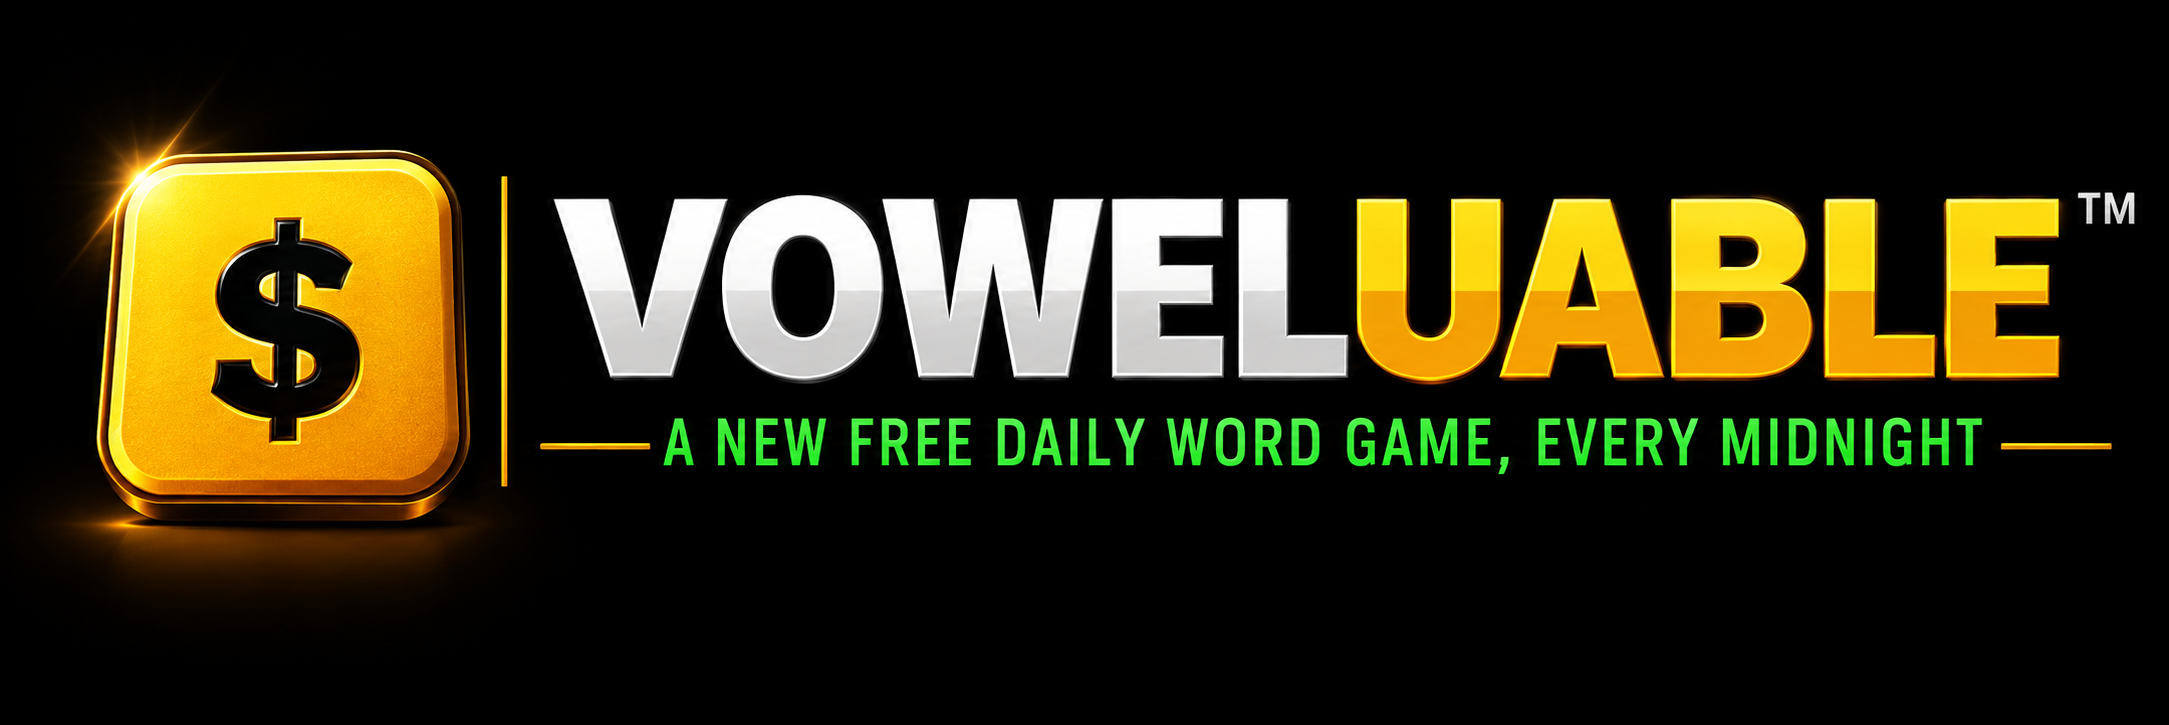
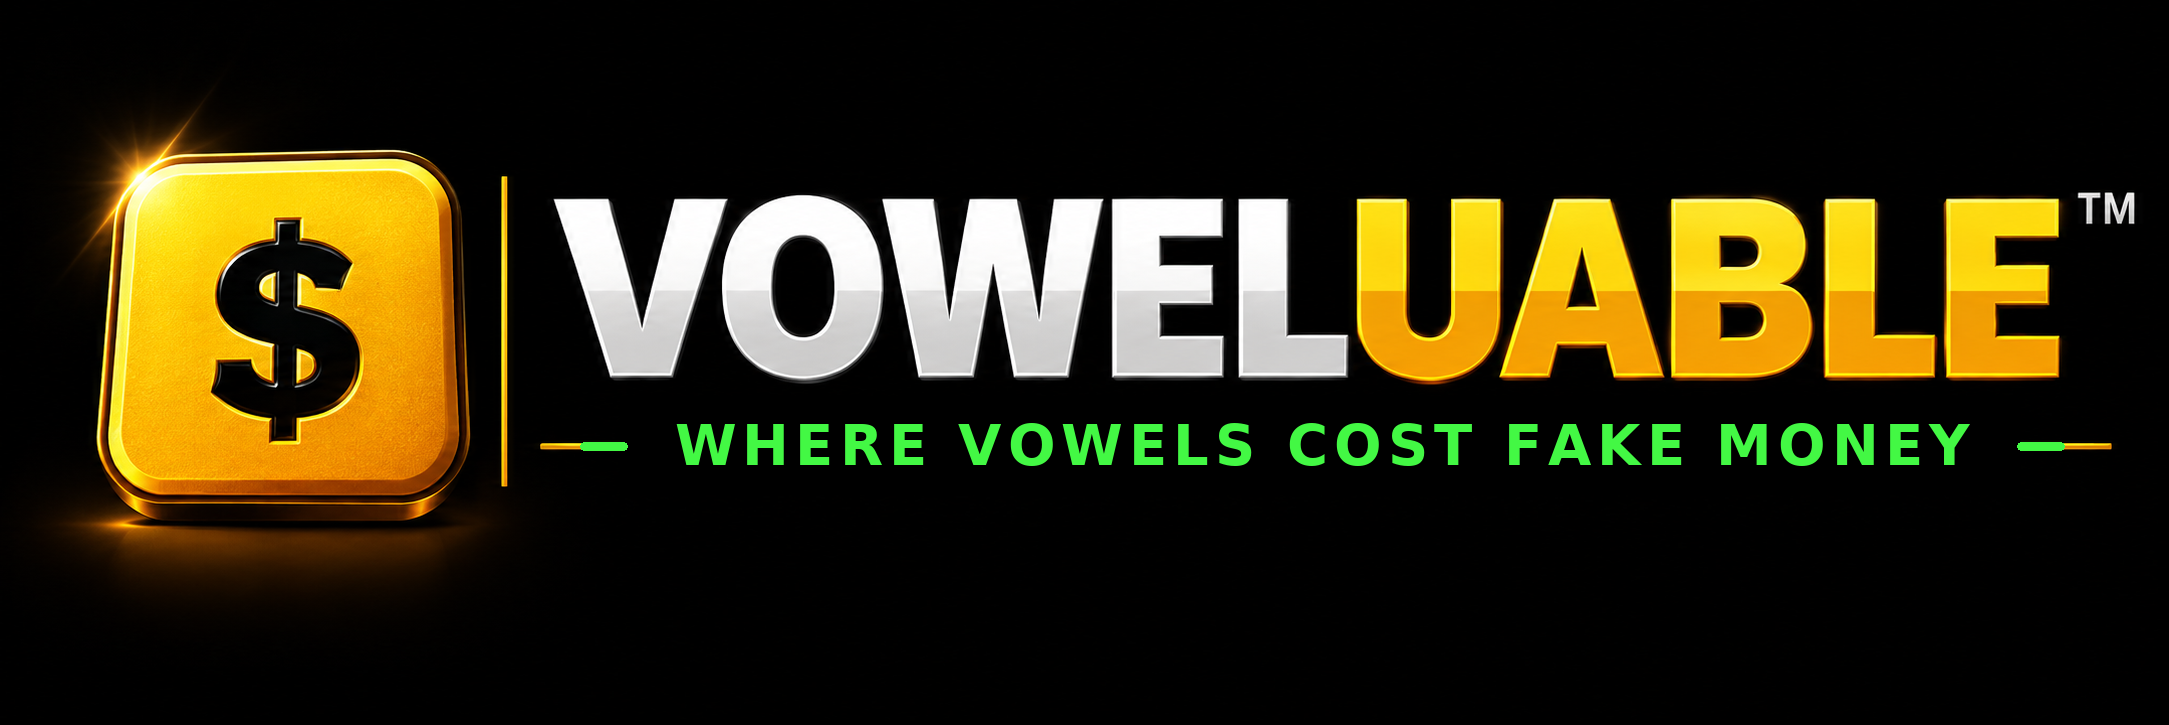
Add files via upload

Changed region(s): [[0.2471, 0.5766, 0.9576, 0.6676]]

diff --git a/index.html b/index.html
@@ -3,10 +3,10 @@
 <head>
 <meta charset="UTF-8">
 <meta name="viewport" content="width=device-width, initial-scale=1.0, viewport-fit=cover">
-<title>Voweluable — the daily word game where vowels cost money</title>
+<title>Voweluable — the daily word game where vowels cost fake money</title>
 <meta name="description" content="Voweluable is a free daily word game with a twist: every vowel costs play money. You get 3 free letters and a $10 budget to buy vowels — spend smart, build the highest-scoring words in 3 minutes, bank what you don't spend, and top the daily leaderboard. New puzzle every midnight.">
 <link rel="canonical" href="https://voweluable.com/">
-<meta property="og:title" content="Voweluable — the daily word game where vowels cost money">
+<meta property="og:title" content="Voweluable — the daily word game where vowels cost fake money">
 <meta property="og:description" content="A free daily word game with a twist: vowels cost play money. Buy them from a $10 budget, build your words, beat the 3-minute clock. New board every midnight, one champion crowned.">
 <meta property="og:type" content="website">
 <meta property="og:url" content="https://voweluable.com/">
@@ -14,7 +14,7 @@
 <meta property="og:image:width" content="1200">
 <meta property="og:image:height" content="630">
 <meta name="twitter:card" content="summary_large_image">
-<meta name="twitter:title" content="Voweluable — the daily word game where vowels cost money">
+<meta name="twitter:title" content="Voweluable — the daily word game where vowels cost fake money">
 <meta name="twitter:description" content="A free daily word game with a twist: vowels cost play money. Buy them from a $10 budget, build your words, beat the clock. New board every midnight.">
 <meta name="twitter:image" content="https://voweluable.com/social-share.png">
 <link rel="icon" href="favicon.ico" sizes="any">
@@ -31,7 +31,7 @@
   "@context": "https://schema.org",
   "@type": "WebApplication",
   "name": "Voweluable",
-  "alternateName": "Voweluable - the word game where vowels cost money",
+  "alternateName": "Voweluable - the word game where vowels cost fake money",
   "url": "https://voweluable.com/",
   "description": "Voweluable is a free daily word game with a twist: every vowel costs play money. You get 3 free letters and a $10 budget to buy vowels, then build the highest-scoring words you can in 3 minutes and bank what you don't spend. A new board every midnight, one champion crowned.",
   "applicationCategory": "GameApplication",
@@ -56,15 +56,15 @@
   :root{
     --ink:#0B1220;
     --ink-light:#131C2E;
-    --gold:#E3B23C;
-    --gold-dark:#B8862A;
-    --silver:#C7CDD4;
-    --silver-dark:#8D96A1;
-    --mint:#34C77B;
-    --coral:#E85D4C;
-    --orange:#F2914B;
-    --cream:#F5EFE0;
-    --muted:#7C8AA5;
+    --gold:#F5BE2E;
+    --gold-dark:#D39A24;
+    --silver:#D9DFE6;
+    --silver-dark:#9BA6B3;
+    --mint:#2FD95E;
+    --coral:#FF6350;
+    --orange:#FF963A;
+    --cream:#FAF4E6;
+    --muted:#8E9CB8;
   }
   *{box-sizing:border-box;}
   body{
@@ -396,7 +396,7 @@
   .tile.tile-used:active{transform:scale(0.94);}
   .tile.consonant{background:linear-gradient(180deg,#ffb55d 0%, #f2914b 52%, #db7730 100%); color:#2a1708; border:none;}
   .tile.vowel-auto{background:linear-gradient(180deg,#ffffff 0%, #efe6ce 100%); color:#23231e; border:2px dashed rgba(0,0,0,0.5);}
-  .tile.vowel-bought{background:linear-gradient(180deg,#60e394 0%, #34c77b 52%, #1fa061 100%); color:#063821; border:none;}
+  .tile.vowel-bought{background:linear-gradient(180deg,#5cf07a 0%, #2fd95e 52%, #17a847 100%); color:#053018; border:none;}
   .tile.blank{
     background:none;
     border:2px dashed rgba(245,239,224,0.3);
@@ -937,8 +937,8 @@
   #playPracticeBtn:active, #lockedPracticeBtn:active{ transform:translateY(3px); box-shadow:0 1px 0 #8d96a1, 0 3px 8px rgba(11,18,32,0.25); }
   /* Glossy green submit button */
   .submit-btn{
-    background:linear-gradient(180deg,#5fe293 0%, #34c77b 52%, #1fa061 100%);
-    box-shadow:0 4px 0 #15774a, 0 7px 14px rgba(11,18,32,0.30), inset 0 1px 0 rgba(255,255,255,0.45);
+    background:linear-gradient(180deg,#5cf07a 0%, #2fd95e 52%, #17a847 100%);
+    box-shadow:0 4px 0 #116a3f, 0 7px 14px rgba(11,18,32,0.30), inset 0 1px 0 rgba(255,255,255,0.45);
     transition:transform 0.08s ease, box-shadow 0.08s ease;
   }
   .submit-btn:active{ transform:translateY(3px); box-shadow:0 1px 0 #15774a, 0 3px 8px rgba(11,18,32,0.30), inset 0 1px 0 rgba(255,255,255,0.4); }
@@ -1045,7 +1045,7 @@
 
 <div class="header-bar">
 <header>
-  <img class="brand-banner" src="banner.png" alt="Voweluable — a new free daily word game where vowels cost money">
+  <img class="brand-banner" src="banner.png" alt="Voweluable — where vowels cost fake money">
 </header>
 <div class="header-meta">
   <span id="hdrDate"></span>
@@ -1345,6 +1345,7 @@
     <div id="sharePreview" class="share-preview" style="display:none;"></div>
     <button class="acct-btn share-cta" id="shareResultBtn" style="display:none; width:100%; margin-top:12px;">📋 Share your result</button>
     <button class="acct-btn" id="fbShareBtn" style="display:none; width:100%; margin-top:8px;">📘 Share to Facebook</button>
+    <button class="acct-btn" id="shareImageBtn" style="display:none; width:100%; margin-top:8px;">🖼 Share result image</button>
     <button class="acct-btn" id="challengeBtn" style="display:none; width:100%; margin-top:8px;">⚔ Challenge a friend</button>
     <div class="shop-hint" id="challengeCopied" style="display:none; margin-top:6px;"></div>
     <button class="acct-btn ghost" id="backToBoardBtn" style="display:none; width:100%; margin-top:10px;">🏆 Back to the leaderboard</button>
@@ -2513,13 +2514,15 @@
   function buildShareText(){
     if (!lastOfficialResult) return '';
     const r = lastOfficialResult;
-    // Spoiler-free "budget bar" — Voweluable's visual signature.
-    // Gold = Vowel Bucks spent on vowels, green = banked. Reveals no words.
-    const leftover = (typeof r.leftoverCash === 'number') ? r.leftoverCash : 0;
-    let spentSegs = Math.round(Math.max(0, 10 - leftover));
-    if (spentSegs < 0) spentSegs = 0;
-    if (spentSegs > 10) spentSegs = 10;
-    const bar = '🟨'.repeat(spentSegs) + '🟩'.repeat(10 - spentSegs);
+    // Spoiler-free board makeup — the 7 tiles you played, by color.
+    // 🟧 consonant · ⬜ auto vowel · 🟩 purchased vowel. Reveals no words.
+    let bar = r.tiles || r.tileEmojisOverride || '';
+    if (!bar){
+      // Fallback for older results with no stored tiles: the budget bar.
+      const leftover = (typeof r.leftoverCash === 'number') ? r.leftoverCash : 0;
+      const spentSegs = Math.max(0, Math.min(10, Math.round(10 - leftover)));
+      bar = '🟨'.repeat(spentSegs) + '🟩'.repeat(10 - spentSegs);
+    }
     const lines = [];
     lines.push('Voweluable #' + displayGameNumber(r.hn));
     lines.push(bar);
@@ -2839,10 +2842,12 @@
       wordCount: foundWords.length,
       maxWordLen: foundWords.length ? Math.max(...foundWords.map(w => w.word.length)) : 0,
       streak: account.currentStreak || 0,
-      leftoverCash: leftoverCash
+      leftoverCash: leftoverCash,
+      tiles: getTileTypeEmojis()
     };
     document.getElementById('shareResultBtn').style.display = 'block';
     document.getElementById('fbShareBtn').style.display = 'block';
+    document.getElementById('shareImageBtn').style.display = 'block';
     document.getElementById('challengeBtn').style.display = 'block';
     document.getElementById('backToBoardBtn').style.display = 'block';
     // Wordle-style visual share preview (grid + score) so every official finish ends with an obvious share moment
@@ -2942,34 +2947,164 @@
     await shareResultViaText(btn, originalLabel);
   });
 
-  async function shareResultToFacebook(btn, originalLabel){
-    // Open the Facebook share dialog synchronously — before ANY await —
-    // or Safari/iOS silently blocks the new tab (same lesson as the
-    // share-before-playing button).
+  // Copy text reliably within a user gesture (iOS blocks async clipboard
+  // once focus leaves the page, so do a synchronous execCommand copy first).
+  function copyForShare(text){
+    let ok = false;
+    try {
+      const ta = document.createElement('textarea');
+      ta.value = text; ta.setAttribute('readonly','');
+      ta.style.position = 'fixed'; ta.style.top = '-9999px'; ta.style.left = '-9999px';
+      document.body.appendChild(ta);
+      ta.focus(); ta.select();
+      try { ta.setSelectionRange(0, text.length); } catch(e){}
+      ok = document.execCommand('copy');
+      document.body.removeChild(ta);
+    } catch(e){ ok = false; }
+    try { if (navigator.clipboard && navigator.clipboard.writeText) navigator.clipboard.writeText(text).catch(()=>{}); } catch(e){}
+    return ok;
+  }
+
+  function shareResultToFacebook(btn, originalLabel){
+    const text = buildShareText();
+    // Copy the result FIRST, synchronously, while the page still has focus —
+    // otherwise iOS blocks the clipboard write once the Facebook tab opens.
+    let copied = false;
+    if (text) copied = copyForShare(text);
+    // THEN open the Facebook dialog (still inside the user gesture, no await).
     window.open(
       'https://www.facebook.com/sharer/sharer.php?u=' +
         encodeURIComponent('https://voweluable.com'),
       '_blank'
     );
-
-    const text = buildShareText();
-    if (!text){
-      btn.textContent = 'Dialog opened — add your score by hand';
-      setTimeout(() => { btn.textContent = originalLabel; }, 3500);
-      return;
-    }
-    try{
-      await navigator.clipboard.writeText(text);
-      btn.textContent = '✅ Score copied — paste it into your post!';
-    } catch(e){
-      btn.textContent = 'Dialog opened — copy your score above';
-    }
+    btn.textContent = text
+      ? (copied ? '✅ Result copied — paste it into your post!' : 'Dialog opened — copy your result above')
+      : 'Dialog opened — add your score by hand';
     setTimeout(() => { btn.textContent = originalLabel; }, 3500);
   }
 
   document.getElementById('fbShareBtn').addEventListener('click', async ()=>{
     const btn = document.getElementById('fbShareBtn');
     await shareResultToFacebook(btn, '📘 Share to Facebook');
+  });
+
+  // ---- Shareable result IMAGE (so the result shows on Facebook as a picture) ----
+  function rrect(ctx, x, y, w, h, r){
+    ctx.beginPath();
+    ctx.moveTo(x + r, y);
+    ctx.arcTo(x + w, y, x + w, y + h, r);
+    ctx.arcTo(x + w, y + h, x, y + h, r);
+    ctx.arcTo(x, y + h, x, y, r);
+    ctx.arcTo(x, y, x + w, y, r);
+    ctx.closePath();
+  }
+  function renderResultImage(){
+    const r = lastOfficialResult || {};
+    const c = document.createElement('canvas');
+    c.width = 1080; c.height = 1080;
+    const x = c.getContext('2d');
+    x.fillStyle = '#0b1220'; x.fillRect(0, 0, 1080, 1080);
+    const g = x.createRadialGradient(540, 430, 60, 540, 430, 580);
+    g.addColorStop(0, 'rgba(227,178,60,0.22)'); g.addColorStop(1, 'rgba(227,178,60,0)');
+    x.fillStyle = g; x.fillRect(0, 0, 1080, 1080);
+    // wordmark
+    x.textAlign = 'left';
+    x.font = '800 92px Arial, sans-serif';
+    const vowel = 'VOWEL', uable = 'UABLE';
+    const wV = x.measureText(vowel).width, wU = x.measureText(uable).width;
+    const sx = 540 - (wV + wU) / 2;
+    x.fillStyle = '#F5EFE0'; x.fillText(vowel, sx, 165);
+    x.fillStyle = '#E3B23C'; x.fillText(uable, sx + wV, 165);
+    x.textAlign = 'center';
+    x.font = '700 34px monospace'; x.fillStyle = '#9aa4b2';
+    const num = (typeof displayGameNumber === 'function') ? displayGameNumber(r.hn) : (r.hn || '');
+    x.fillText('DAILY  #' + num, 540, 222);
+    // Board makeup: the 7 tiles played, by color (🟧 consonant · ⬜ auto · 🟩 purchased vowel)
+    const COL = { '🟧': '#F2914B', '⬜': '#F5EFE0', '🟩': '#34C77B' };
+    const emo = r.tiles || r.tileEmojisOverride || '';
+    let tiles = emo ? Array.from(emo) : [];
+    if (!tiles.length){
+      const leftover = (typeof r.leftoverCash === 'number') ? r.leftoverCash : 0;
+      const spent = Math.max(0, Math.min(10, Math.round(10 - leftover)));
+      for (let i = 0; i < 10; i++) tiles.push(i < spent ? '🟨' : '🟩');
+      COL['🟨'] = '#E3B23C';
+    }
+    const n = tiles.length, sq = (n > 7 ? 80 : 104), gap = 16, totalW = n * sq + (n - 1) * gap, gx = 540 - totalW / 2, gy = 300;
+    for (let i = 0; i < n; i++){
+      const cx = gx + i * (sq + gap);
+      x.fillStyle = COL[tiles[i]] || '#F2914B';
+      rrect(x, cx, gy, sq, sq, 18); x.fill();
+      if (tiles[i] === '⬜'){
+        x.lineWidth = 3; x.strokeStyle = 'rgba(0,0,0,0.45)'; x.setLineDash([9, 7]);
+        rrect(x, cx + 5, gy + 5, sq - 10, sq - 10, 13); x.stroke(); x.setLineDash([]);
+      }
+      x.fillStyle = 'rgba(255,255,255,0.28)';
+      rrect(x, cx + 7, gy + 7, sq - 14, (sq - 14) * 0.42, 9); x.fill();
+    }
+    // legend (only when showing real tiles)
+    if (emo){
+      const ly = gy + sq + 48;
+      x.font = '700 24px Arial, sans-serif'; x.textAlign = 'left';
+      const items = [['#F2914B', 'CONSONANT'], ['#F5EFE0', 'AUTO VOWEL'], ['#34C77B', 'VOWEL']];
+      const boxW = 26, pad = 30;
+      const widths = items.map(it => boxW + 10 + x.measureText(it[1]).width);
+      const tot = widths.reduce((a, b) => a + b, 0) + pad * (items.length - 1);
+      let lx = 540 - tot / 2;
+      items.forEach((it, idx) => {
+        x.fillStyle = it[0]; rrect(x, lx, ly - 21, boxW, boxW, 6); x.fill();
+        x.fillStyle = '#c7cdd4'; x.fillText(it[1], lx + boxW + 10, ly);
+        lx += widths[idx] + pad;
+      });
+      x.textAlign = 'center';
+    }
+    // score
+    x.font = '800 150px Arial, sans-serif'; x.fillStyle = '#E3B23C';
+    x.fillText(Math.round(r.score || 0).toLocaleString('en-US') + ' pts', 540, 600);
+    // sub
+    x.font = '700 44px Arial, sans-serif'; x.fillStyle = '#F5EFE0';
+    let sub = (r.wordCount ? r.wordCount + ' words' : '') + ((r.wordCount && r.rank) ? '    ·    ' : '') + (r.rank ? 'Rank #' + r.rank : '');
+    if (sub) x.fillText(sub, 540, 684);
+    // streak
+    if (r.streak >= 1){
+      x.font = '800 48px Arial, sans-serif'; x.fillStyle = '#F2914B';
+      x.fillText(r.streak + '-DAY STREAK', 540, 772);
+    }
+    // footer
+    x.font = '700 48px Arial, sans-serif'; x.fillStyle = '#34C77B';
+    x.fillText('Can you beat it?', 540, 930);
+    x.font = '800 58px Arial, sans-serif'; x.fillStyle = '#F5EFE0';
+    x.fillText('voweluable.com', 540, 1008);
+    return c;
+  }
+  document.getElementById('shareImageBtn').addEventListener('click', async ()=>{
+    const btn = document.getElementById('shareImageBtn');
+    const orig = '🖼 Share result image';
+    if (!lastOfficialResult){
+      const ok = await loadOfficialResultFromDb();
+      if (!ok){ btn.textContent = "Couldn't load your result — try again"; setTimeout(()=>{ btn.textContent = orig; }, 2500); return; }
+    }
+    try {
+      const canvas = renderResultImage();
+      const dataUrl = canvas.toDataURL('image/png');
+      // Build a File synchronously so navigator.share stays inside the user gesture.
+      const bin = atob(dataUrl.split(',')[1]);
+      const arr = new Uint8Array(bin.length);
+      for (let i = 0; i < bin.length; i++) arr[i] = bin.charCodeAt(i);
+      const file = new File([arr], 'voweluable-result.png', { type: 'image/png' });
+      if (navigator.canShare && navigator.canShare({ files: [file] })){
+        await navigator.share({ files: [file], title: 'Voweluable', text: buildShareText() });
+        return;
+      }
+      // Desktop / unsupported: download the image to attach manually.
+      const a = document.createElement('a');
+      a.href = dataUrl; a.download = 'voweluable-result.png';
+      document.body.appendChild(a); a.click(); a.remove();
+      btn.textContent = '✅ Image saved — attach it to your post';
+      setTimeout(()=>{ btn.textContent = orig; }, 3500);
+    } catch(e){
+      btn.textContent = "Couldn't make image — try again";
+      setTimeout(()=>{ btn.textContent = orig; }, 2500);
+    }
   });
 
   document.getElementById('lockedFbShareBtn').addEventListener('click', async ()=>{

diff --git a/service-worker.js b/service-worker.js
@@ -1,7 +1,7 @@
 // Voweluable service worker
 // Bump CACHE_NAME on every deploy that changes index.html or any cached asset,
 // so returning players get the new version instead of a stale cached one.
-const CACHE_NAME = 'voweluable-v19';
+const CACHE_NAME = 'voweluable-v20';
 
 // Static assets that rarely change — safe to serve cache-first for speed.
 const APP_SHELL = [
@@ -14,7 +14,8 @@ const APP_SHELL = [
   '/favicon-192.png',
   '/favicon-512.png',
   '/social-share.png',
-  '/board-tutorial.png'
+  '/board-tutorial.png',
+  '/banner.png'
 ];
 
 self.addEventListener('install', (event) => {
